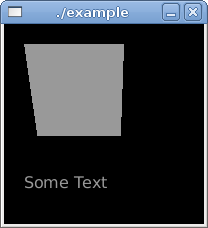
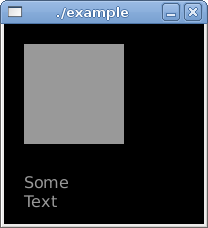
2007-12-12  Murray Cumming  <murrayc@murrayc.com>
* configure.ac:
* examples/Makefile.am:
* examples/actor_transformations/main.c: (main):
Added this example.
* examples/actor/main.c: (main): Removed the 
rotation from this example.
* docs/tutorial/clutter-tut.xml: Actors: Added a 
transformations sub-section.
* docs/tutorial/figures/Makefile.am:
* docs/tutorial/figures/: Added screenshots for 
actor_events and actor_transformations.

Changed region(s): [[0.1154, 0.2149, 0.6058, 0.6447], [0.1154, 0.8289, 0.2885, 0.9211], [0.3462, 0.7675, 0.5192, 0.8289]]

diff --git a/examples/actor_transformations/main.c b/examples/actor_transformations/main.c
@@ -37,12 +37,29 @@ int main(int argc, char *argv[])
   clutter_container_add_actor (CLUTTER_CONTAINER (stage), rect);
   clutter_actor_show (rect);
 
+  /* Rotate it 20 degrees away from us around the x axis
+   * (around its top edge)
+   */
+  clutter_actor_set_rotation (rect, CLUTTER_X_AXIS, -20, 0, 0, 0);
+
+
   /* Add a label to the stage: */
   ClutterActor *label = clutter_label_new_full ("Sans 12", "Some Text", &actor_color);
   clutter_actor_set_size (label, 500, 500); /* TODO: Has no effect yet. See bug #631. */
   clutter_actor_set_position (label, 20, 150);
   clutter_container_add_actor (CLUTTER_CONTAINER (stage), label);
   clutter_actor_show (label);
+
+  /* Scale it 300% along the x axis:
+   */
+  clutter_actor_set_scale (label, 3.00, 1.0);
+
+  /* Move it up and to the right: */
+  clutter_actor_move_by (label, 10, -10);
+
+  /* Move it along the z axis, further from the viewer: */
+  clutter_actor_set_depth (label, -20);
+
 
   /* Show the stage: */
   clutter_actor_show (stage);

diff --git a/examples/actor_events/main.c b/examples/actor_events/main.c
@@ -88,7 +88,7 @@ int main(int argc, char *argv[])
 
   /* Get the stage and set its size and color: */
   ClutterActor *stage = clutter_stage_get_default ();
-  clutter_actor_set_size (stage, 800, 600);
+  clutter_actor_set_size (stage, 200, 200);
   clutter_stage_set_color (CLUTTER_STAGE (stage), &stage_color);
 
   /* Connect signal handlers to handle mouse clicks and key presses on the stage: */ 
